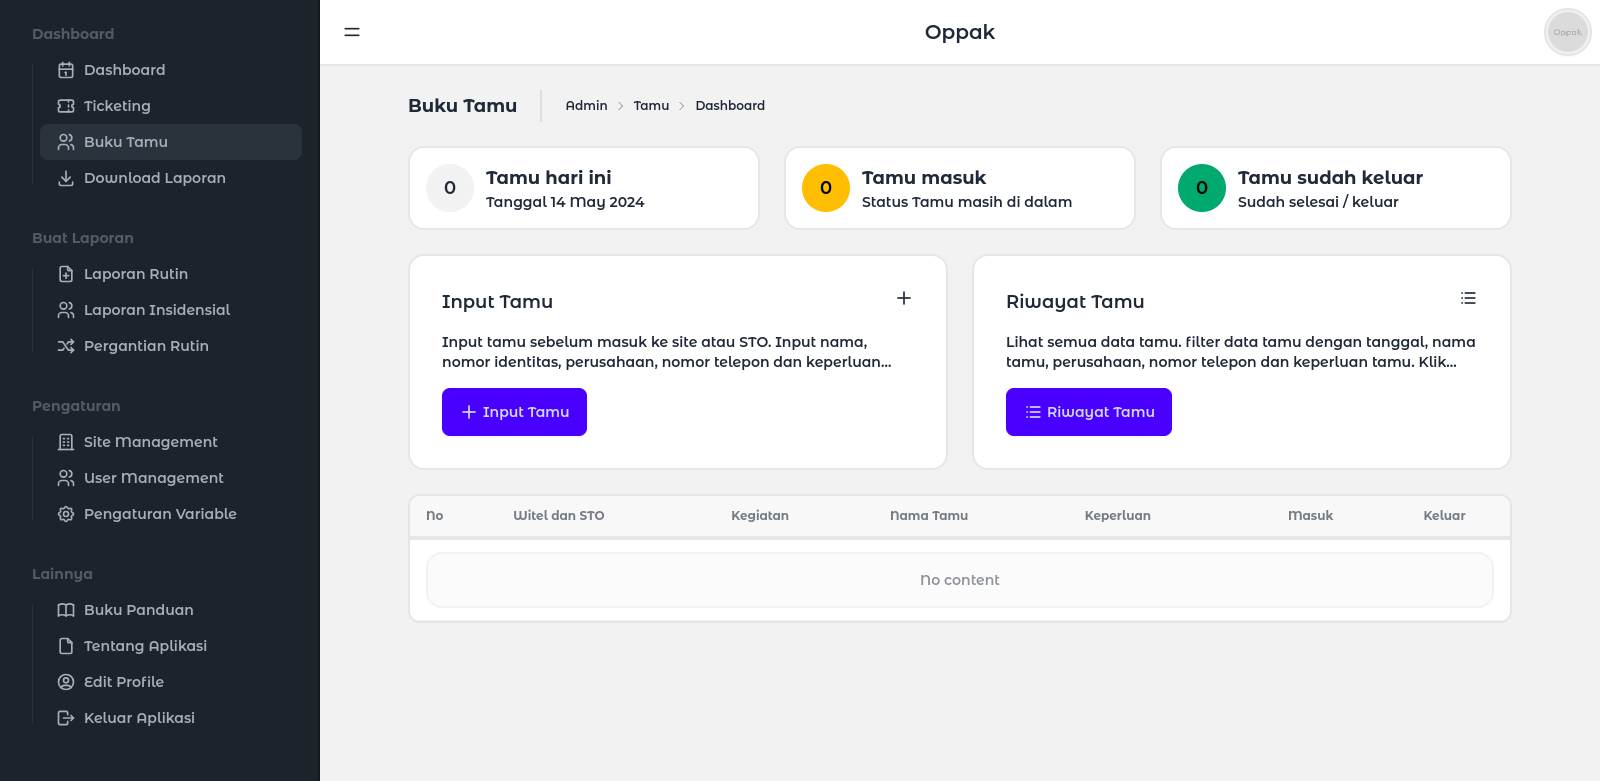
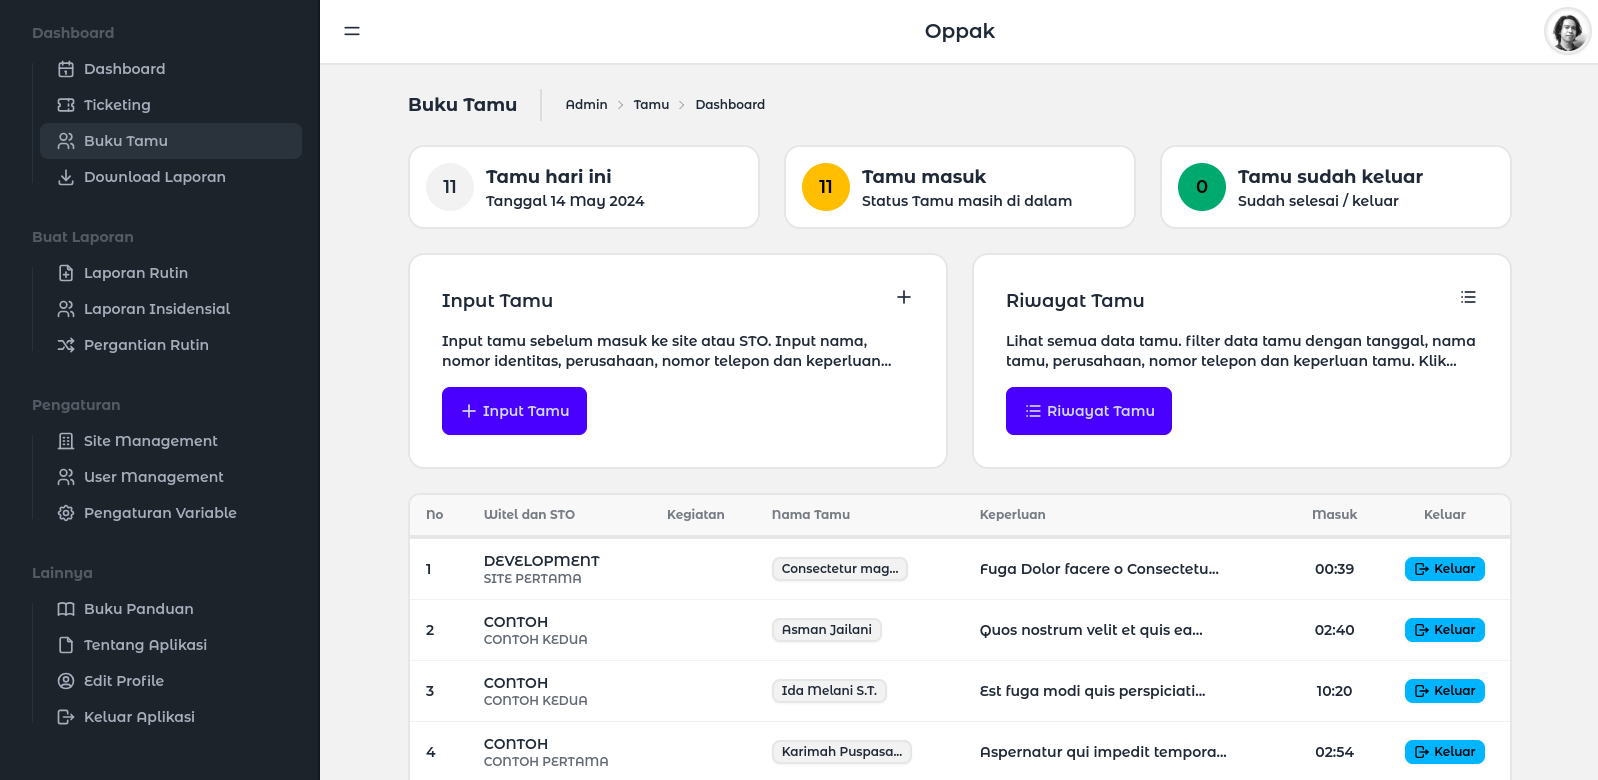
buku tamu markdown

diff --git a/resources/views/markdowns/buku tamu.md b/resources/views/markdowns/buku tamu.md
@@ -1,8 +1,14 @@
 # Buku tamu
 
+Buku tamu atau visitor berfungsi untuk mencatatan tamu yang datang ke site PAK, Pencatatan buku tamu ini berisi nama tamu, perusahaan asal tamu, nomor identitas. dan nomor telepon serta uraian keperluan tamu. Terdapat juga pencatatan atau upload Photo kegiatan tamu saat melakukan keperluannya.
+
+untuk masuk ke fitur buku tamu, user harus memiliki akses untuk fitur buku tamu ini kemudian klik menu tersebut untuk masuk.
+
 ## 1. Menginput tamu
 
 ![Menambhakan tamu](/docs/bukutamucreate.png)
+
+Untuk menambahkan tamu
 
 ## 2. Menambahkan photo kegiatan tamu
 
@@ -14,4 +20,4 @@
 
 ## 4. Riwayat tamu
 
-![Riwayat Tamu](/docs/bukutamu.png)
+![Riwayat Tamu](/docs/bukutamuriwayat.png)
